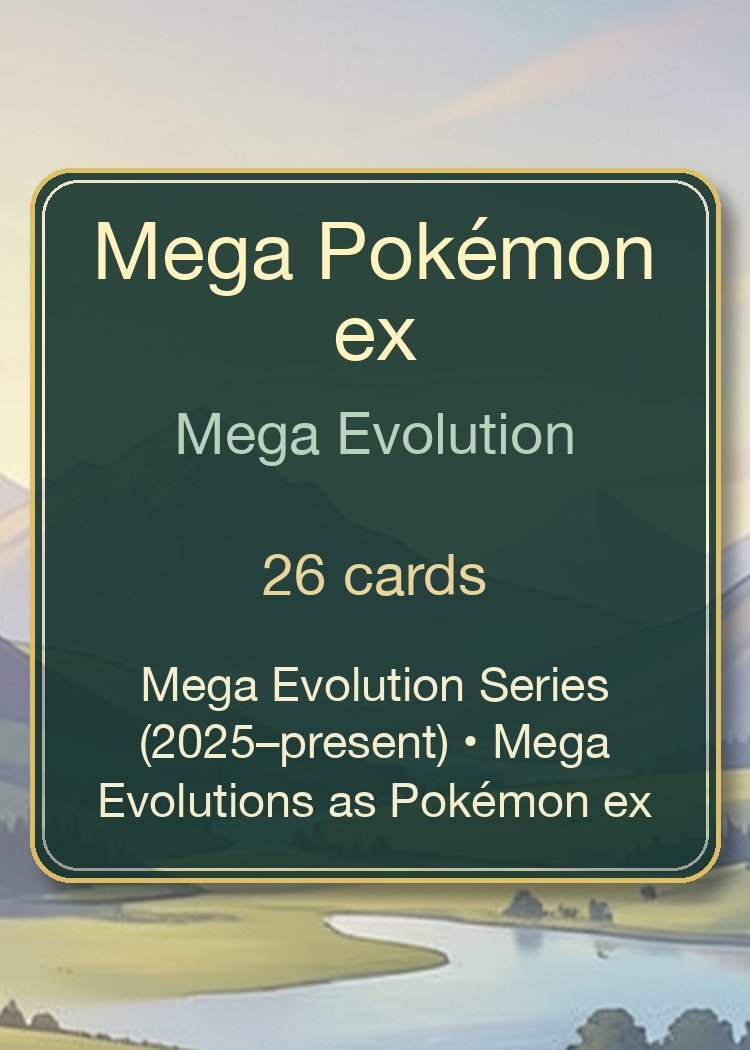
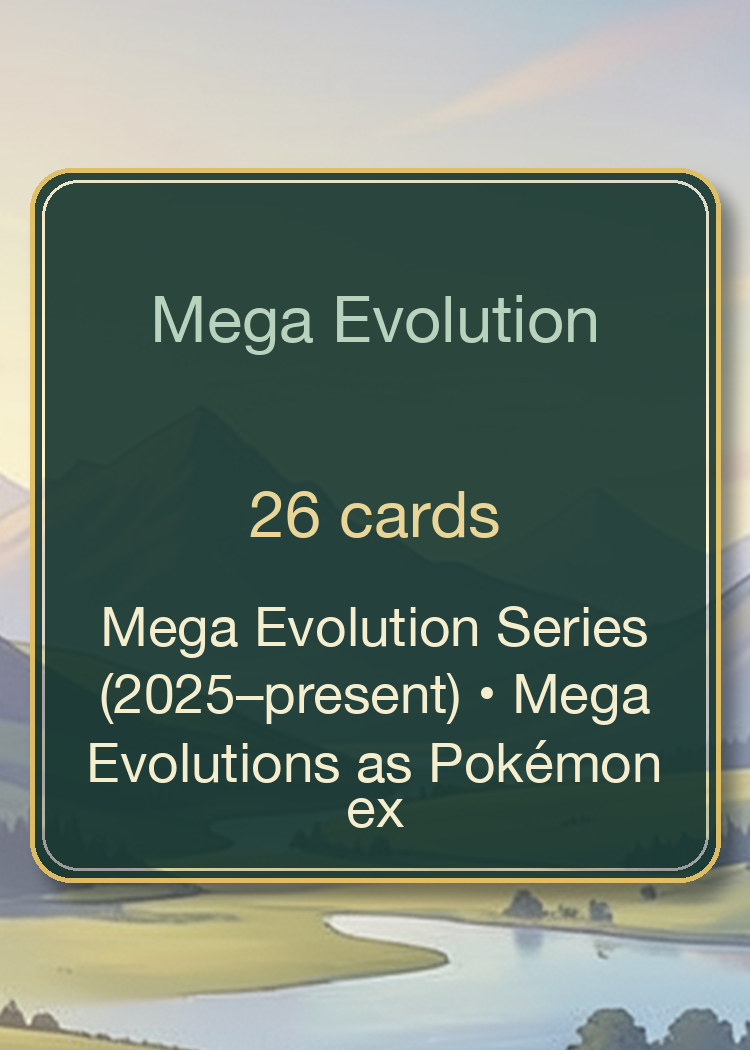
fix(poster): omit duplicate section titles

Changed region(s): [[0.1227, 0.2133, 0.8893, 0.7924]]

diff --git a/scripts/poster_assets/finalize_comfyui_poster.py b/scripts/poster_assets/finalize_comfyui_poster.py
@@ -203,6 +203,8 @@ def info_panel_values(
     scope_data: dict,
     language: str,
     content_mode: str,
+    *,
+    include_section_title: bool = True,
 ) -> tuple[str, ...]:
     """Resolve the deterministic text rows for one poster overlay profile."""
     if content_mode == "set_summary":
@@ -216,12 +218,13 @@ def info_panel_values(
         section = selected_section(scope_data)
         cards = section.get("cards")
         section_card_count = len(cards) if isinstance(cards, list) else 0
-        return (
+        values = (
             localized_value(section.get("title"), language),
             localized_value(section.get("subtitle"), language),
             f"{section_card_count} {CARD_LABELS[language]}",
             localized_value(section.get("description"), language),
         )
+        return values if include_section_title else values[1:]
     raise ValueError(f"Unsupported text_content.mode: {content_mode}")
 
 
@@ -283,6 +286,7 @@ def draw_info_panel(
     config: dict | None = None,
     *,
     content_mode: str = "set_summary",
+    include_section_title: bool = True,
 ) -> None:
     box = info_panel_box(cell, config)
     scale = canvas.width / 1400
@@ -298,7 +302,12 @@ def draw_info_panel(
     draw.rounded_rectangle(inner, radius=max(5, radius - 5), outline=(255, 244, 190, 75), width=max(1, round(2 * scale)))
     canvas.alpha_composite(overlay)
 
-    values = info_panel_values(scope_data, language, content_mode)
+    values = info_panel_values(
+        scope_data,
+        language,
+        content_mode,
+        include_section_title=include_section_title,
+    )
 
     text_draw = ImageDraw.Draw(canvas, "RGBA")
     pad_x = max(5, round((box[2] - box[0]) * 0.04))
@@ -310,12 +319,18 @@ def draw_info_panel(
             (values[2], (box[0] + pad_x, box[1] + round(height * 0.57), box[2] - pad_x, box[1] + round(height * 0.76)), max(8, cell.height // 24), max(7, cell.height // 28), False, (185, 210, 190, 255)),
             (values[3], (box[0] + pad_x, box[1] + round(height * 0.75), box[2] - pad_x, box[3] - 4), max(8, cell.height // 21), max(7, cell.height // 27), False, (244, 238, 207, 255)),
         )
-    else:
+    elif include_section_title:
         rows = (
             (values[0], (box[0] + pad_x, box[1] + round(height * 0.05), box[2] - pad_x, box[1] + round(height * 0.29)), max(11, cell.height // 13), max(9, cell.height // 20), True, (255, 244, 190, 255)),
             (values[1], (box[0] + pad_x, box[1] + round(height * 0.28), box[2] - pad_x, box[1] + round(height * 0.48)), max(9, cell.height // 18), max(8, cell.height // 24), False, (185, 210, 190, 255)),
             (values[2], (box[0] + pad_x, box[1] + round(height * 0.47), box[2] - pad_x, box[1] + round(height * 0.67)), max(9, cell.height // 18), max(8, cell.height // 24), True, (232, 213, 151, 255)),
             (values[3], (box[0] + pad_x, box[1] + round(height * 0.66), box[2] - pad_x, box[3] - round(height * 0.05)), max(8, cell.height // 22), max(7, cell.height // 28), False, (244, 238, 207, 255)),
+        )
+    else:
+        rows = (
+            (values[0], (box[0] + pad_x, box[1] + round(height * 0.08), box[2] - pad_x, box[1] + round(height * 0.36)), max(10, cell.height // 16), max(8, cell.height // 23), False, (185, 210, 190, 255)),
+            (values[1], (box[0] + pad_x, box[1] + round(height * 0.36), box[2] - pad_x, box[1] + round(height * 0.61)), max(10, cell.height // 16), max(8, cell.height // 23), True, (232, 213, 151, 255)),
+            (values[2], (box[0] + pad_x, box[1] + round(height * 0.60), box[2] - pad_x, box[3] - round(height * 0.06)), max(9, cell.height // 19), max(7, cell.height // 27), False, (244, 238, 207, 255)),
         )
     for text, text_box, preferred_size, minimum_size, bold, color in rows:
         font = fitted_font(
@@ -557,6 +572,9 @@ def draw_final_text_cells(canvas, layout, manifest, scope_data, scope_dir: Path,
         language,
         info_cfg,
         content_mode=content_config.get("mode", "set_summary"),
+        include_section_title=bool(
+            content_config.get("include_section_title", True)
+        ),
     )
     draw_project_signature(canvas)
 

diff --git a/scripts/tests/test_poster_targets.py b/scripts/tests/test_poster_targets.py
@@ -258,12 +258,23 @@ def test_section_manifest_preserves_title_logo_token_but_info_hides_tokens():
 
     assert manifest["title_text"]["en"] == "Mega-Pokémon [EX_NEW]"
     assert manifest["text_cells"]["title"]["style"] == "inline_logo"
+    assert manifest["text_content"]["include_section_title"] is False
     assert info_panel_values(
         {"sections": {"mega": section}},
         "en",
         "section_summary",
     ) == (
         "Mega-Pokémon ex",
+        "ex Series",
+        "3 cards",
+        "Mega Evolution with Tera ex and EX",
+    )
+    assert info_panel_values(
+        {"sections": {"mega": section}},
+        "en",
+        "section_summary",
+        include_section_title=False,
+    ) == (
         "ex Series",
         "3 cards",
         "Mega Evolution with Tera ex and EX",

diff --git a/scripts/poster_assets/init_poster_scope.py b/scripts/poster_assets/init_poster_scope.py
@@ -313,7 +313,10 @@ def build_section_manifest(
             },
         },
         "title_text": section_poster_title(scope, section_data),
-        "text_content": {"mode": "section_summary"},
+        "text_content": {
+            "mode": "section_summary",
+            "include_section_title": scope == "Pokedex",
+        },
         "artwork": {
             "promoted_file": "poster-flux2-artwork.png",
             "preview_file": "poster-flux2.png",

diff --git a/scripts/tests/test_poster_assets.py b/scripts/tests/test_poster_assets.py
@@ -1205,6 +1205,9 @@ def test_every_current_aggregate_section_bootstraps_from_shared_code():
             )
 
             assert len(selected) == count
+            assert manifest["text_content"]["include_section_title"] is (
+                path.stem == "Pokedex"
+            )
             checked.append(f"{path.stem}/{section_id}")
 
     assert len(checked) == 15

diff --git a/scripts/poster_assets/provenance.py b/scripts/poster_assets/provenance.py
@@ -1249,6 +1249,9 @@ def build_overlay_fingerprint(
                     scope_data,
                     language,
                     content_mode,
+                    include_section_title=bool(
+                        content.get("include_section_title", True)
+                    ),
                 )
             ),
         }

diff --git a/docs/POSTER_ARTWORK_REQUIREMENTS.md b/docs/POSTER_ARTWORK_REQUIREMENTS.md
@@ -105,7 +105,7 @@ is the accepted cost of exact identity preservation.
 | `PA-020` | Raster card geometry closes exactly on every real canvas | Done | Cumulative physical endpoints drive preparation, finalization, slicing, promotion, and validation |
 | `PA-021` | Default and fallback cannot become ambiguous | Done | One manifest owns one active generation contract; fallback selection and promotion are explicit |
 | `PA-022` | Poster copy works in every language emitted for its scope | Done | Tests cover all 266 current target/language combinations; aggregate copy is complete in all nine PDF languages and TCG sets follow their advertised language inventory |
-| `PA-023` | A poster carries the semantic information of its preceding cover | Done | Set posters show localized set name, card count, release date, title/logo, and project identity; aggregate posters show section title, subtitle/region, card count, description/range, collection title, and project identity; inline logo tokens use their tracked artwork instead of flattened text; the cover-only cutting hint/build timestamp remains operational metadata |
+| `PA-023` | A poster carries the semantic information of its preceding cover | Done | Set posters show localized set name, card count, release date, title/logo, and project identity; aggregate posters show section title, subtitle/region, card count, description/range, collection title, and project identity without repeating an identical upper section title inside the information panel; inline logo tokens use their tracked artwork instead of flattened text; the cover-only cutting hint/build timestamp remains operational metadata |
 | `PA-024` | Removing a preceding cover is an explicit gated migration | Open | Covers remain enabled; add an explicit renderer option only after every affected target is promoted and representative PDFs pass multilingual visual review |
 | `PA-025` | Every current set and subsection is represented in the poster work plan | Done | 41 checked-in manifests cover 26 individual sets and 15 aggregate sections; tests reject missing or stale scene and manifest coverage |
 | `PA-026` | A scope with fewer canonical subjects is not padded with duplicates or unrelated forms | Done | Section manifests accept one to the layout column count; two-subject `ExGen2/primal` uses the two outer bottom cards while the normal 3×3 default remains three subjects |

diff --git a/docs/POSTER_ARTWORK_CONCEPT.md b/docs/POSTER_ARTWORK_CONCEPT.md
@@ -159,10 +159,13 @@ and rendered after the text-free artwork has passed review.
 
 The overlay has two semantic profiles. `set_summary` renders the localized set
 name, card count, release label/date, localized logo where available, and the
-project mark. `section_summary` renders collection/section title, localized
-subtitle or region, card count, description/range, and the project mark. Every
-current aggregate section provides all nine PDF translations; an individual
-TCG set follows only the languages advertised by its fetched set data.
+project mark. `section_summary` renders localized subtitle or region, card
+count, description/range, and the project mark. It also includes the section
+title when the separate upper title represents a collection, as on Pokédex
+posters; Ex-generation posters omit that row because their upper title already
+is the section title. Every current aggregate section provides all nine PDF
+translations; an individual TCG set follows only the languages advertised by
+its fetched set data.
 Section titles with one supported trailing logo token preserve that token and
 render the tracked transparent logo inline with the localized title, directly
 on the artwork. Text-only section titles keep the bounded title panel, while a

diff --git a/docs/POSTER_ARTWORK_EXPERIMENT_LOG.md b/docs/POSTER_ARTWORK_EXPERIMENT_LOG.md
@@ -1351,3 +1351,11 @@ remain unchanged; only previews, top-center card slices, and overlay
 fingerprints were refreshed. The read-only planner reports both promotions as
 current, and the German `ExGen3_DE_TEST_NO_IMAGES.pdf` smoke build confirms the
 unchanged cover followed by the new cut-safe `Pokémon` plus `ex` poster title.
+
+The following review caught that this exact section title was still repeated
+as the first row of the middle information panel. Aggregate manifests now
+state whether that row belongs there: Pokédex keeps it because the upper title
+is the collection name, while every Ex-generation section omits it because the
+upper title already names that section. Subtitle, card count, and description
+then use the three-row panel layout; no generated artwork or PDF routing is
+changed.
